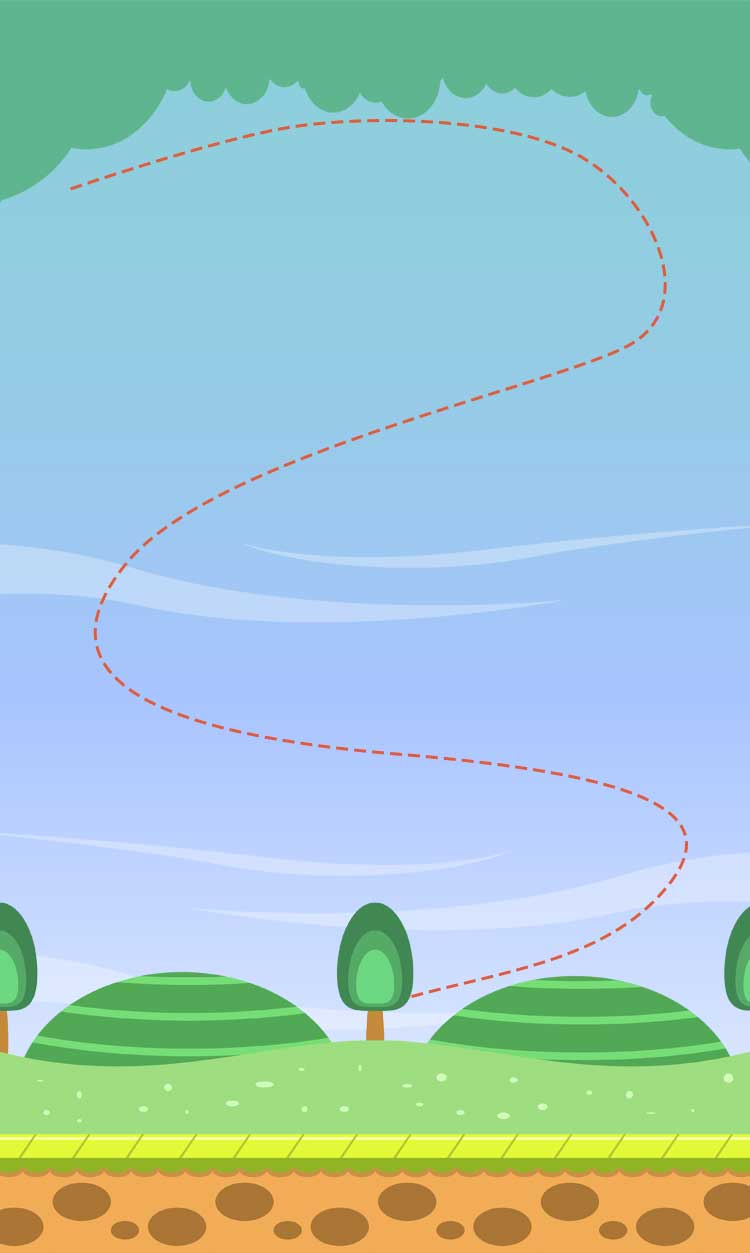
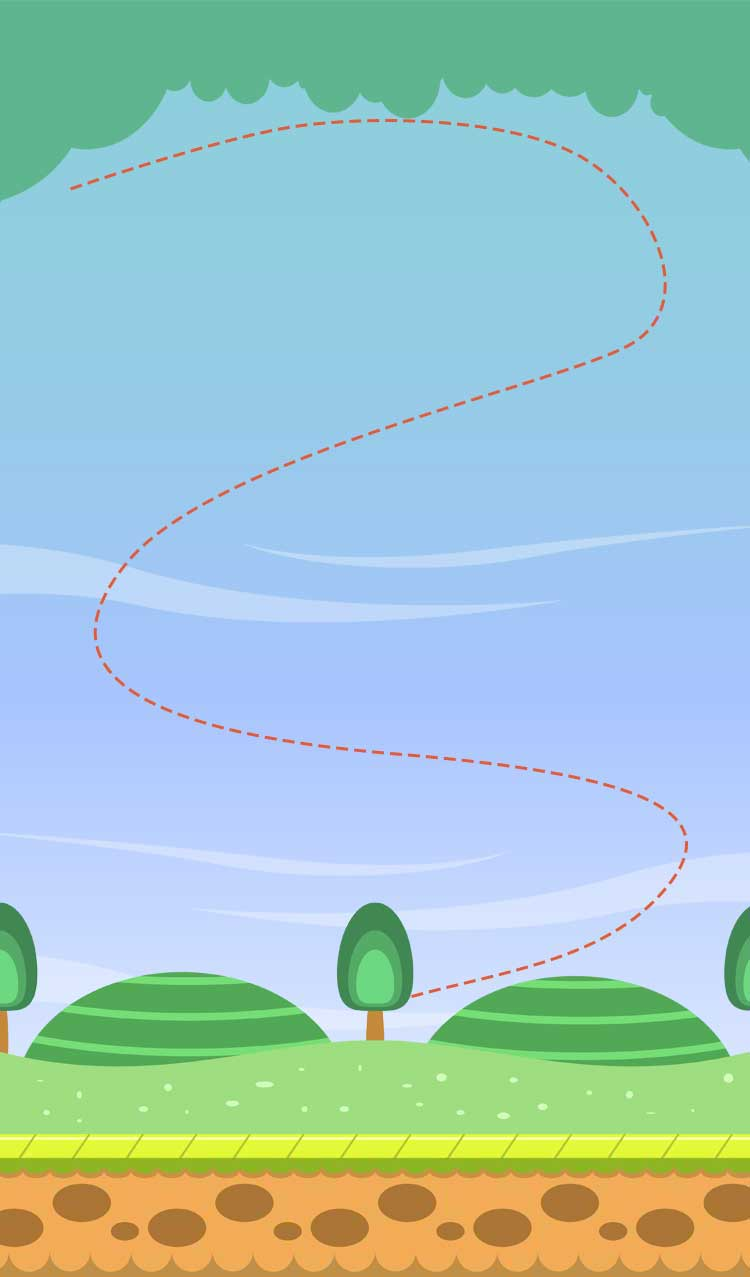
youhua

diff --git a/src/pages/challengemap/challengemap.vue b/src/pages/challengemap/challengemap.vue
@@ -231,6 +231,7 @@
 <style>
   page{
     height:100%;
+    background: #c09046;
   }
 </style>
 <style lang="less" scoped>
@@ -399,7 +400,7 @@
     }
     .bg{
       width: 100%;
-      height: 1246px/2;
+      height: 1277px/2;
       display: block;
     }
   .c_box{
